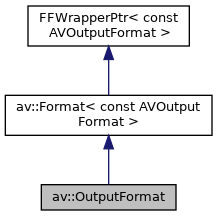
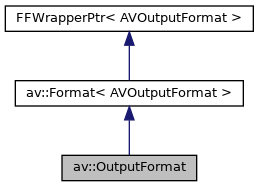
Update gh-pages to output generated at e71d3e4

Changed region(s): [[0.0, 0.0, 0.9954, 0.9893]]

diff --git a/classav_1_1OutputFormat.html b/classav_1_1OutputFormat.html
@@ -81,9 +81,9 @@ Inheritance diagram for av::OutputFormat:</div>
 <div class="dyncontent">
 <div class="center"><img src="classav_1_1OutputFormat__inherit__graph.png" border="0" usemap="#av_1_1OutputFormat_inherit__map" alt="Inheritance graph"/></div>
 <map name="av_1_1OutputFormat_inherit__map" id="av_1_1OutputFormat_inherit__map">
-<area shape="rect" title=" " alt="" coords="41,184,176,211"/>
-<area shape="rect" href="structav_1_1Format.html" title=" " alt="" coords="5,95,212,136"/>
-<area shape="rect" href="structFFWrapperPtr.html" title=" " alt="" coords="28,5,189,47"/>
+<area shape="rect" title=" " alt="" coords="62,155,197,181"/>
+<area shape="rect" href="structav_1_1Format.html" title=" " alt="" coords="15,80,243,107"/>
+<area shape="rect" href="structFFWrapperPtr.html" title=" " alt="" coords="5,5,253,32"/>
 </map>
 <center><span class="legend">[<a href="graph_legend.html">legend</a>]</span></center></div>
 <div class="dynheader">
@@ -91,9 +91,9 @@ Collaboration diagram for av::OutputFormat:</div>
 <div class="dyncontent">
 <div class="center"><img src="classav_1_1OutputFormat__coll__graph.png" border="0" usemap="#av_1_1OutputFormat_coll__map" alt="Collaboration graph"/></div>
 <map name="av_1_1OutputFormat_coll__map" id="av_1_1OutputFormat_coll__map">
-<area shape="rect" title=" " alt="" coords="41,184,176,211"/>
-<area shape="rect" href="structav_1_1Format.html" title=" " alt="" coords="5,95,212,136"/>
-<area shape="rect" href="structFFWrapperPtr.html" title=" " alt="" coords="28,5,189,47"/>
+<area shape="rect" title=" " alt="" coords="62,155,197,181"/>
+<area shape="rect" href="structav_1_1Format.html" title=" " alt="" coords="15,80,243,107"/>
+<area shape="rect" href="structFFWrapperPtr.html" title=" " alt="" coords="5,5,253,32"/>
 </map>
 <center><span class="legend">[<a href="graph_legend.html">legend</a>]</span></center></div>
 <table class="memberdecls">
@@ -109,7 +109,7 @@ Public Member Functions</h2></td></tr>
 <tr class="separator:ade1b0a0c023dbe99880f84547052891e"><td class="memSeparator" colspan="2">&#160;</td></tr>
 <tr class="memitem:a79fce31917f42711d05f3fe6c9ebc3b9"><td class="memItemLeft" align="right" valign="top">AVCodecID&#160;</td><td class="memItemRight" valign="bottom"><a class="el" href="classav_1_1OutputFormat.html#a79fce31917f42711d05f3fe6c9ebc3b9">defaultAudioCodecId</a> () const noexcept</td></tr>
 <tr class="separator:a79fce31917f42711d05f3fe6c9ebc3b9"><td class="memSeparator" colspan="2">&#160;</td></tr>
-<tr class="inherit_header pub_methods_structav_1_1Format"><td colspan="2" onclick="javascript:toggleInherit('pub_methods_structav_1_1Format')"><img src="closed.png" alt="-"/>&#160;Public Member Functions inherited from <a class="el" href="structav_1_1Format.html">av::Format&lt; const AVOutputFormat &gt;</a></td></tr>
+<tr class="inherit_header pub_methods_structav_1_1Format"><td colspan="2" onclick="javascript:toggleInherit('pub_methods_structav_1_1Format')"><img src="closed.png" alt="-"/>&#160;Public Member Functions inherited from <a class="el" href="structav_1_1Format.html">av::Format&lt; AVOutputFormat &gt;</a></td></tr>
 <tr class="memitem:a553d2d6b2d7dc22dee46a6fb826aac7c inherit pub_methods_structav_1_1Format"><td class="memItemLeft" align="right" valign="top">const char *&#160;</td><td class="memItemRight" valign="bottom"><a class="el" href="structav_1_1Format.html#a553d2d6b2d7dc22dee46a6fb826aac7c">name</a> () const noexcept</td></tr>
 <tr class="separator:a553d2d6b2d7dc22dee46a6fb826aac7c inherit pub_methods_structav_1_1Format"><td class="memSeparator" colspan="2">&#160;</td></tr>
 <tr class="memitem:a3e13d856e9b39f0b6b9bde2a3a47545b inherit pub_methods_structav_1_1Format"><td class="memItemLeft" align="right" valign="top">const char *&#160;</td><td class="memItemRight" valign="bottom"><a class="el" href="structav_1_1Format.html#a3e13d856e9b39f0b6b9bde2a3a47545b">longName</a> () const noexcept</td></tr>
@@ -118,20 +118,20 @@ Public Member Functions</h2></td></tr>
 <tr class="separator:ae1701d1a6ac64cbf03ec6755f49041f3 inherit pub_methods_structav_1_1Format"><td class="memSeparator" colspan="2">&#160;</td></tr>
 <tr class="memitem:a76a75832000e3f4278b0c6339dbf1eb3 inherit pub_methods_structav_1_1Format"><td class="memItemLeft" align="right" valign="top">bool&#160;</td><td class="memItemRight" valign="bottom"><a class="el" href="structav_1_1Format.html#a76a75832000e3f4278b0c6339dbf1eb3">isFlags</a> (int32_t <a class="el" href="structav_1_1Format.html#ae1701d1a6ac64cbf03ec6755f49041f3">flags</a>) const noexcept</td></tr>
 <tr class="separator:a76a75832000e3f4278b0c6339dbf1eb3 inherit pub_methods_structav_1_1Format"><td class="memSeparator" colspan="2">&#160;</td></tr>
-<tr class="memitem:a48a7626d81cc432338a0e397195f634c inherit pub_methods_structav_1_1Format"><td class="memItemLeft" align="right" valign="top">void&#160;</td><td class="memItemRight" valign="bottom"><a class="el" href="structav_1_1Format.html#a48a7626d81cc432338a0e397195f634c">setFormat</a> (const const AVOutputFormat *format) noexcept</td></tr>
+<tr class="memitem:a48a7626d81cc432338a0e397195f634c inherit pub_methods_structav_1_1Format"><td class="memItemLeft" align="right" valign="top">void&#160;</td><td class="memItemRight" valign="bottom"><a class="el" href="structav_1_1Format.html#a48a7626d81cc432338a0e397195f634c">setFormat</a> (const AVOutputFormat *format) noexcept</td></tr>
 <tr class="separator:a48a7626d81cc432338a0e397195f634c inherit pub_methods_structav_1_1Format"><td class="memSeparator" colspan="2">&#160;</td></tr>
 <tr class="memitem:ad7d5de416e36b566bb844c74f7b5e2dc inherit pub_methods_structav_1_1Format"><td class="memItemLeft" align="right" valign="top">bool&#160;</td><td class="memItemRight" valign="bottom"><a class="el" href="structav_1_1Format.html#ad7d5de416e36b566bb844c74f7b5e2dc">codecSupported</a> (const class <a class="el" href="classav_1_1Codec.html">Codec</a> &amp;codec) const noexcept</td></tr>
 <tr class="separator:ad7d5de416e36b566bb844c74f7b5e2dc inherit pub_methods_structav_1_1Format"><td class="memSeparator" colspan="2">&#160;</td></tr>
-<tr class="inherit_header pub_methods_structFFWrapperPtr"><td colspan="2" onclick="javascript:toggleInherit('pub_methods_structFFWrapperPtr')"><img src="closed.png" alt="-"/>&#160;Public Member Functions inherited from <a class="el" href="structFFWrapperPtr.html">FFWrapperPtr&lt; const AVOutputFormat &gt;</a></td></tr>
+<tr class="inherit_header pub_methods_structFFWrapperPtr"><td colspan="2" onclick="javascript:toggleInherit('pub_methods_structFFWrapperPtr')"><img src="closed.png" alt="-"/>&#160;Public Member Functions inherited from <a class="el" href="structFFWrapperPtr.html">FFWrapperPtr&lt; AVOutputFormat &gt;</a></td></tr>
 <tr class="memitem:a9c62250f8af0f75fa86ee2a62ece3471 inherit pub_methods_structFFWrapperPtr"><td class="memItemLeft" align="right" valign="top">&#160;</td><td class="memItemRight" valign="bottom"><a class="el" href="structFFWrapperPtr.html#a9c62250f8af0f75fa86ee2a62ece3471">FFWrapperPtr</a> ()=default</td></tr>
 <tr class="separator:a9c62250f8af0f75fa86ee2a62ece3471 inherit pub_methods_structFFWrapperPtr"><td class="memSeparator" colspan="2">&#160;</td></tr>
-<tr class="memitem:af4481d007c84ce93945712250896e640 inherit pub_methods_structFFWrapperPtr"><td class="memItemLeft" align="right" valign="top">&#160;</td><td class="memItemRight" valign="bottom"><a class="el" href="structFFWrapperPtr.html#af4481d007c84ce93945712250896e640">FFWrapperPtr</a> (const AVOutputFormat *<a class="el" href="structFFWrapperPtr.html#a9324a428f328e33b38e7ecd3ace23c17">raw</a>)</td></tr>
+<tr class="memitem:af4481d007c84ce93945712250896e640 inherit pub_methods_structFFWrapperPtr"><td class="memItemLeft" align="right" valign="top">&#160;</td><td class="memItemRight" valign="bottom"><a class="el" href="structFFWrapperPtr.html#af4481d007c84ce93945712250896e640">FFWrapperPtr</a> (AVOutputFormat *<a class="el" href="structFFWrapperPtr.html#a9324a428f328e33b38e7ecd3ace23c17">raw</a>)</td></tr>
 <tr class="separator:af4481d007c84ce93945712250896e640 inherit pub_methods_structFFWrapperPtr"><td class="memSeparator" colspan="2">&#160;</td></tr>
-<tr class="memitem:a9324a428f328e33b38e7ecd3ace23c17 inherit pub_methods_structFFWrapperPtr"><td class="memItemLeft" align="right" valign="top">const const AVOutputFormat *&#160;</td><td class="memItemRight" valign="bottom"><a class="el" href="structFFWrapperPtr.html#a9324a428f328e33b38e7ecd3ace23c17">raw</a> () const</td></tr>
+<tr class="memitem:a9324a428f328e33b38e7ecd3ace23c17 inherit pub_methods_structFFWrapperPtr"><td class="memItemLeft" align="right" valign="top">const AVOutputFormat *&#160;</td><td class="memItemRight" valign="bottom"><a class="el" href="structFFWrapperPtr.html#a9324a428f328e33b38e7ecd3ace23c17">raw</a> () const</td></tr>
 <tr class="separator:a9324a428f328e33b38e7ecd3ace23c17 inherit pub_methods_structFFWrapperPtr"><td class="memSeparator" colspan="2">&#160;</td></tr>
-<tr class="memitem:a872f3732cae6ab54abf6f6ca1af03822 inherit pub_methods_structFFWrapperPtr"><td class="memItemLeft" align="right" valign="top">const AVOutputFormat *&#160;</td><td class="memItemRight" valign="bottom"><a class="el" href="structFFWrapperPtr.html#a872f3732cae6ab54abf6f6ca1af03822">raw</a> ()</td></tr>
+<tr class="memitem:a872f3732cae6ab54abf6f6ca1af03822 inherit pub_methods_structFFWrapperPtr"><td class="memItemLeft" align="right" valign="top">AVOutputFormat *&#160;</td><td class="memItemRight" valign="bottom"><a class="el" href="structFFWrapperPtr.html#a872f3732cae6ab54abf6f6ca1af03822">raw</a> ()</td></tr>
 <tr class="separator:a872f3732cae6ab54abf6f6ca1af03822 inherit pub_methods_structFFWrapperPtr"><td class="memSeparator" colspan="2">&#160;</td></tr>
-<tr class="memitem:a1bb1bf8f201adeb010b0dce1aeefc07f inherit pub_methods_structFFWrapperPtr"><td class="memItemLeft" align="right" valign="top">void&#160;</td><td class="memItemRight" valign="bottom"><a class="el" href="structFFWrapperPtr.html#a1bb1bf8f201adeb010b0dce1aeefc07f">reset</a> (const AVOutputFormat *<a class="el" href="structFFWrapperPtr.html#a9324a428f328e33b38e7ecd3ace23c17">raw</a>=nullptr)</td></tr>
+<tr class="memitem:a1bb1bf8f201adeb010b0dce1aeefc07f inherit pub_methods_structFFWrapperPtr"><td class="memItemLeft" align="right" valign="top">void&#160;</td><td class="memItemRight" valign="bottom"><a class="el" href="structFFWrapperPtr.html#a1bb1bf8f201adeb010b0dce1aeefc07f">reset</a> (AVOutputFormat *<a class="el" href="structFFWrapperPtr.html#a9324a428f328e33b38e7ecd3ace23c17">raw</a>=nullptr)</td></tr>
 <tr class="separator:a1bb1bf8f201adeb010b0dce1aeefc07f inherit pub_methods_structFFWrapperPtr"><td class="memSeparator" colspan="2">&#160;</td></tr>
 <tr class="memitem:ae54094f0416110300e139b875945b982 inherit pub_methods_structFFWrapperPtr"><td class="memItemLeft" align="right" valign="top">bool&#160;</td><td class="memItemRight" valign="bottom"><a class="el" href="structFFWrapperPtr.html#ae54094f0416110300e139b875945b982">isNull</a> () const</td></tr>
 <tr class="separator:ae54094f0416110300e139b875945b982 inherit pub_methods_structFFWrapperPtr"><td class="memSeparator" colspan="2">&#160;</td></tr>
@@ -142,8 +142,8 @@ Public Member Functions</h2></td></tr>
 </table><table class="memberdecls">
 <tr class="heading"><td colspan="2"><h2 class="groupheader"><a name="inherited"></a>
 Additional Inherited Members</h2></td></tr>
-<tr class="inherit_header pro_attribs_structFFWrapperPtr"><td colspan="2" onclick="javascript:toggleInherit('pro_attribs_structFFWrapperPtr')"><img src="closed.png" alt="-"/>&#160;Protected Attributes inherited from <a class="el" href="structFFWrapperPtr.html">FFWrapperPtr&lt; const AVOutputFormat &gt;</a></td></tr>
-<tr class="memitem:a5965838ceb4eeae6d752187b914a2899 inherit pro_attribs_structFFWrapperPtr"><td class="memItemLeft" align="right" valign="top">const AVOutputFormat *&#160;</td><td class="memItemRight" valign="bottom"><a class="el" href="structFFWrapperPtr.html#a5965838ceb4eeae6d752187b914a2899">m_raw</a></td></tr>
+<tr class="inherit_header pro_attribs_structFFWrapperPtr"><td colspan="2" onclick="javascript:toggleInherit('pro_attribs_structFFWrapperPtr')"><img src="closed.png" alt="-"/>&#160;Protected Attributes inherited from <a class="el" href="structFFWrapperPtr.html">FFWrapperPtr&lt; AVOutputFormat &gt;</a></td></tr>
+<tr class="memitem:a5965838ceb4eeae6d752187b914a2899 inherit pro_attribs_structFFWrapperPtr"><td class="memItemLeft" align="right" valign="top">AVOutputFormat *&#160;</td><td class="memItemRight" valign="bottom"><a class="el" href="structFFWrapperPtr.html#a5965838ceb4eeae6d752187b914a2899">m_raw</a></td></tr>
 <tr class="separator:a5965838ceb4eeae6d752187b914a2899 inherit pro_attribs_structFFWrapperPtr"><td class="memSeparator" colspan="2">&#160;</td></tr>
 </table>
 <h2 class="groupheader">Constructor &amp; Destructor Documentation</h2>

diff --git a/classav_1_1OutputFormat-members.html b/classav_1_1OutputFormat-members.html
@@ -74,26 +74,26 @@ $(function() {
 
 <p>This is the complete list of members for <a class="el" href="classav_1_1OutputFormat.html">av::OutputFormat</a>, including all inherited members.</p>
 <table class="directory">
-  <tr class="even"><td class="entry"><a class="el" href="structFFWrapperPtr.html#a527efb6b9c843b88dda31ef3b7b908f4">_log</a>(int level, const char *fmt) const</td><td class="entry"><a class="el" href="structFFWrapperPtr.html">FFWrapperPtr&lt; const AVOutputFormat &gt;</a></td><td class="entry"><span class="mlabel">inline</span></td></tr>
-  <tr><td class="entry"><a class="el" href="structFFWrapperPtr.html#a510827f8ea5f35887075ee04f3f45519">_log</a>(int level, const char *fmt, const Args &amp;... args) const</td><td class="entry"><a class="el" href="structFFWrapperPtr.html">FFWrapperPtr&lt; const AVOutputFormat &gt;</a></td><td class="entry"><span class="mlabel">inline</span></td></tr>
-  <tr class="even"><td class="entry"><a class="el" href="structav_1_1Format.html#ad7d5de416e36b566bb844c74f7b5e2dc">codecSupported</a>(const class Codec &amp;codec) const noexcept</td><td class="entry"><a class="el" href="structav_1_1Format.html">av::Format&lt; const AVOutputFormat &gt;</a></td><td class="entry"><span class="mlabel">inline</span></td></tr>
+  <tr class="even"><td class="entry"><a class="el" href="structFFWrapperPtr.html#a527efb6b9c843b88dda31ef3b7b908f4">_log</a>(int level, const char *fmt) const</td><td class="entry"><a class="el" href="structFFWrapperPtr.html">FFWrapperPtr&lt; AVOutputFormat &gt;</a></td><td class="entry"><span class="mlabel">inline</span></td></tr>
+  <tr><td class="entry"><a class="el" href="structFFWrapperPtr.html#a510827f8ea5f35887075ee04f3f45519">_log</a>(int level, const char *fmt, const Args &amp;... args) const</td><td class="entry"><a class="el" href="structFFWrapperPtr.html">FFWrapperPtr&lt; AVOutputFormat &gt;</a></td><td class="entry"><span class="mlabel">inline</span></td></tr>
+  <tr class="even"><td class="entry"><a class="el" href="structav_1_1Format.html#ad7d5de416e36b566bb844c74f7b5e2dc">codecSupported</a>(const class Codec &amp;codec) const noexcept</td><td class="entry"><a class="el" href="structav_1_1Format.html">av::Format&lt; AVOutputFormat &gt;</a></td><td class="entry"><span class="mlabel">inline</span></td></tr>
   <tr><td class="entry"><a class="el" href="classav_1_1OutputFormat.html#a79fce31917f42711d05f3fe6c9ebc3b9">defaultAudioCodecId</a>() const noexcept</td><td class="entry"><a class="el" href="classav_1_1OutputFormat.html">av::OutputFormat</a></td><td class="entry"></td></tr>
   <tr class="even"><td class="entry"><a class="el" href="classav_1_1OutputFormat.html#ade1b0a0c023dbe99880f84547052891e">defaultVideoCodecId</a>() const noexcept</td><td class="entry"><a class="el" href="classav_1_1OutputFormat.html">av::OutputFormat</a></td><td class="entry"></td></tr>
-  <tr><td class="entry"><a class="el" href="structFFWrapperPtr.html#a9c62250f8af0f75fa86ee2a62ece3471">FFWrapperPtr</a>()=default</td><td class="entry"><a class="el" href="structFFWrapperPtr.html">FFWrapperPtr&lt; const AVOutputFormat &gt;</a></td><td class="entry"></td></tr>
-  <tr class="even"><td class="entry"><a class="el" href="structFFWrapperPtr.html#af4481d007c84ce93945712250896e640">FFWrapperPtr</a>(const AVOutputFormat *raw)</td><td class="entry"><a class="el" href="structFFWrapperPtr.html">FFWrapperPtr&lt; const AVOutputFormat &gt;</a></td><td class="entry"><span class="mlabel">inline</span><span class="mlabel">explicit</span></td></tr>
-  <tr><td class="entry"><a class="el" href="structav_1_1Format.html#ae1701d1a6ac64cbf03ec6755f49041f3">flags</a>() const noexcept</td><td class="entry"><a class="el" href="structav_1_1Format.html">av::Format&lt; const AVOutputFormat &gt;</a></td><td class="entry"><span class="mlabel">inline</span></td></tr>
-  <tr class="even"><td class="entry"><a class="el" href="structav_1_1Format.html#a76a75832000e3f4278b0c6339dbf1eb3">isFlags</a>(int32_t flags) const noexcept</td><td class="entry"><a class="el" href="structav_1_1Format.html">av::Format&lt; const AVOutputFormat &gt;</a></td><td class="entry"><span class="mlabel">inline</span></td></tr>
-  <tr><td class="entry"><a class="el" href="structFFWrapperPtr.html#ae54094f0416110300e139b875945b982">isNull</a>() const</td><td class="entry"><a class="el" href="structFFWrapperPtr.html">FFWrapperPtr&lt; const AVOutputFormat &gt;</a></td><td class="entry"><span class="mlabel">inline</span></td></tr>
-  <tr class="even"><td class="entry"><a class="el" href="structav_1_1Format.html#a3e13d856e9b39f0b6b9bde2a3a47545b">longName</a>() const noexcept</td><td class="entry"><a class="el" href="structav_1_1Format.html">av::Format&lt; const AVOutputFormat &gt;</a></td><td class="entry"><span class="mlabel">inline</span></td></tr>
-  <tr><td class="entry"><a class="el" href="structFFWrapperPtr.html#a5965838ceb4eeae6d752187b914a2899">m_raw</a></td><td class="entry"><a class="el" href="structFFWrapperPtr.html">FFWrapperPtr&lt; const AVOutputFormat &gt;</a></td><td class="entry"><span class="mlabel">protected</span></td></tr>
-  <tr class="even"><td class="entry"><a class="el" href="structav_1_1Format.html#a553d2d6b2d7dc22dee46a6fb826aac7c">name</a>() const noexcept</td><td class="entry"><a class="el" href="structav_1_1Format.html">av::Format&lt; const AVOutputFormat &gt;</a></td><td class="entry"><span class="mlabel">inline</span></td></tr>
+  <tr><td class="entry"><a class="el" href="structFFWrapperPtr.html#a9c62250f8af0f75fa86ee2a62ece3471">FFWrapperPtr</a>()=default</td><td class="entry"><a class="el" href="structFFWrapperPtr.html">FFWrapperPtr&lt; AVOutputFormat &gt;</a></td><td class="entry"></td></tr>
+  <tr class="even"><td class="entry"><a class="el" href="structFFWrapperPtr.html#af4481d007c84ce93945712250896e640">FFWrapperPtr</a>(AVOutputFormat *raw)</td><td class="entry"><a class="el" href="structFFWrapperPtr.html">FFWrapperPtr&lt; AVOutputFormat &gt;</a></td><td class="entry"><span class="mlabel">inline</span><span class="mlabel">explicit</span></td></tr>
+  <tr><td class="entry"><a class="el" href="structav_1_1Format.html#ae1701d1a6ac64cbf03ec6755f49041f3">flags</a>() const noexcept</td><td class="entry"><a class="el" href="structav_1_1Format.html">av::Format&lt; AVOutputFormat &gt;</a></td><td class="entry"><span class="mlabel">inline</span></td></tr>
+  <tr class="even"><td class="entry"><a class="el" href="structav_1_1Format.html#a76a75832000e3f4278b0c6339dbf1eb3">isFlags</a>(int32_t flags) const noexcept</td><td class="entry"><a class="el" href="structav_1_1Format.html">av::Format&lt; AVOutputFormat &gt;</a></td><td class="entry"><span class="mlabel">inline</span></td></tr>
+  <tr><td class="entry"><a class="el" href="structFFWrapperPtr.html#ae54094f0416110300e139b875945b982">isNull</a>() const</td><td class="entry"><a class="el" href="structFFWrapperPtr.html">FFWrapperPtr&lt; AVOutputFormat &gt;</a></td><td class="entry"><span class="mlabel">inline</span></td></tr>
+  <tr class="even"><td class="entry"><a class="el" href="structav_1_1Format.html#a3e13d856e9b39f0b6b9bde2a3a47545b">longName</a>() const noexcept</td><td class="entry"><a class="el" href="structav_1_1Format.html">av::Format&lt; AVOutputFormat &gt;</a></td><td class="entry"><span class="mlabel">inline</span></td></tr>
+  <tr><td class="entry"><a class="el" href="structFFWrapperPtr.html#a5965838ceb4eeae6d752187b914a2899">m_raw</a></td><td class="entry"><a class="el" href="structFFWrapperPtr.html">FFWrapperPtr&lt; AVOutputFormat &gt;</a></td><td class="entry"><span class="mlabel">protected</span></td></tr>
+  <tr class="even"><td class="entry"><a class="el" href="structav_1_1Format.html#a553d2d6b2d7dc22dee46a6fb826aac7c">name</a>() const noexcept</td><td class="entry"><a class="el" href="structav_1_1Format.html">av::Format&lt; AVOutputFormat &gt;</a></td><td class="entry"><span class="mlabel">inline</span></td></tr>
   <tr><td class="entry"><a class="el" href="classav_1_1OutputFormat.html#ae053c74fcb611e63c0a28c2e1cca6704">OutputFormat</a>()=default</td><td class="entry"><a class="el" href="classav_1_1OutputFormat.html">av::OutputFormat</a></td><td class="entry"></td></tr>
   <tr class="even"><td class="entry"><a class="el" href="classav_1_1OutputFormat.html#aa9c952ba4ad9e64a5cb48d6b0bd58815">OutputFormat</a>(const std::string &amp;name, const std::string &amp;url=std::string(), const std::string &amp;mime=std::string()) noexcept</td><td class="entry"><a class="el" href="classav_1_1OutputFormat.html">av::OutputFormat</a></td><td class="entry"></td></tr>
-  <tr><td class="entry"><a class="el" href="structFFWrapperPtr.html#a9324a428f328e33b38e7ecd3ace23c17">raw</a>() const</td><td class="entry"><a class="el" href="structFFWrapperPtr.html">FFWrapperPtr&lt; const AVOutputFormat &gt;</a></td><td class="entry"><span class="mlabel">inline</span></td></tr>
-  <tr class="even"><td class="entry"><a class="el" href="structFFWrapperPtr.html#a872f3732cae6ab54abf6f6ca1af03822">raw</a>()</td><td class="entry"><a class="el" href="structFFWrapperPtr.html">FFWrapperPtr&lt; const AVOutputFormat &gt;</a></td><td class="entry"><span class="mlabel">inline</span></td></tr>
-  <tr><td class="entry"><a class="el" href="structFFWrapperPtr.html#a1bb1bf8f201adeb010b0dce1aeefc07f">reset</a>(const AVOutputFormat *raw=nullptr)</td><td class="entry"><a class="el" href="structFFWrapperPtr.html">FFWrapperPtr&lt; const AVOutputFormat &gt;</a></td><td class="entry"><span class="mlabel">inline</span></td></tr>
+  <tr><td class="entry"><a class="el" href="structFFWrapperPtr.html#a9324a428f328e33b38e7ecd3ace23c17">raw</a>() const</td><td class="entry"><a class="el" href="structFFWrapperPtr.html">FFWrapperPtr&lt; AVOutputFormat &gt;</a></td><td class="entry"><span class="mlabel">inline</span></td></tr>
+  <tr class="even"><td class="entry"><a class="el" href="structFFWrapperPtr.html#a872f3732cae6ab54abf6f6ca1af03822">raw</a>()</td><td class="entry"><a class="el" href="structFFWrapperPtr.html">FFWrapperPtr&lt; AVOutputFormat &gt;</a></td><td class="entry"><span class="mlabel">inline</span></td></tr>
+  <tr><td class="entry"><a class="el" href="structFFWrapperPtr.html#a1bb1bf8f201adeb010b0dce1aeefc07f">reset</a>(AVOutputFormat *raw=nullptr)</td><td class="entry"><a class="el" href="structFFWrapperPtr.html">FFWrapperPtr&lt; AVOutputFormat &gt;</a></td><td class="entry"><span class="mlabel">inline</span></td></tr>
   <tr class="even"><td class="entry"><a class="el" href="classav_1_1OutputFormat.html#a6450d75481c6a605c7a613b3151f0498">setFormat</a>(const std::string &amp;name, const std::string &amp;url=std::string(), const std::string &amp;mime=std::string()) noexcept</td><td class="entry"><a class="el" href="classav_1_1OutputFormat.html">av::OutputFormat</a></td><td class="entry"></td></tr>
-  <tr><td class="entry"><a class="el" href="structav_1_1Format.html#a48a7626d81cc432338a0e397195f634c">Format&lt; const AVOutputFormat &gt;::setFormat</a>(const const AVOutputFormat *format) noexcept</td><td class="entry"><a class="el" href="structav_1_1Format.html">av::Format&lt; const AVOutputFormat &gt;</a></td><td class="entry"><span class="mlabel">inline</span></td></tr>
+  <tr><td class="entry"><a class="el" href="structav_1_1Format.html#a48a7626d81cc432338a0e397195f634c">Format&lt; AVOutputFormat &gt;::setFormat</a>(const AVOutputFormat *format) noexcept</td><td class="entry"><a class="el" href="structav_1_1Format.html">av::Format&lt; AVOutputFormat &gt;</a></td><td class="entry"><span class="mlabel">inline</span></td></tr>
 </table></div><!-- contents -->
 <!-- start footer part -->
 <hr class="footer"/><address class="footer"><small>

diff --git a/hierarchy.html b/hierarchy.html
@@ -126,17 +126,17 @@ This inheritance list is sorted roughly, but not completely, alphabetically:</di
 <tr id="row_21_" class="even"><td class="entry"><span style="width:0px;display:inline-block;">&#160;</span><span id="arr_21_" class="arrow" onclick="toggleFolder('21_')">&#9660;</span><span class="icona"><span class="icon">C</span></span><a class="el" href="structFFWrapperPtr.html" target="_self">FFWrapperPtr&lt; AVInputFormat &gt;</a></td><td class="desc"></td></tr>
 <tr id="row_21_0_"><td class="entry"><span style="width:16px;display:inline-block;">&#160;</span><span id="arr_21_0_" class="arrow" onclick="toggleFolder('21_0_')">&#9660;</span><span class="icona"><span class="icon">C</span></span><a class="el" href="structav_1_1Format.html" target="_self">av::Format&lt; AVInputFormat &gt;</a></td><td class="desc"></td></tr>
 <tr id="row_21_0_0_" class="even"><td class="entry"><span style="width:48px;display:inline-block;">&#160;</span><span class="icona"><span class="icon">C</span></span><a class="el" href="classav_1_1InputFormat.html" target="_self">av::InputFormat</a></td><td class="desc"></td></tr>
-<tr id="row_22_"><td class="entry"><span style="width:0px;display:inline-block;">&#160;</span><span id="arr_22_" class="arrow" onclick="toggleFolder('22_')">&#9660;</span><span class="icona"><span class="icon">C</span></span><a class="el" href="structFFWrapperPtr.html" target="_self">FFWrapperPtr&lt; AVStream &gt;</a></td><td class="desc"></td></tr>
-<tr id="row_22_0_" class="even"><td class="entry"><span style="width:32px;display:inline-block;">&#160;</span><span class="icona"><span class="icon">C</span></span><a class="el" href="classav_1_1Stream.html" target="_self">av::Stream</a></td><td class="desc"></td></tr>
-<tr id="row_23_"><td class="entry"><span style="width:0px;display:inline-block;">&#160;</span><span id="arr_23_" class="arrow" onclick="toggleFolder('23_')">&#9660;</span><span class="icona"><span class="icon">C</span></span><a class="el" href="structFFWrapperPtr.html" target="_self">FFWrapperPtr&lt; const AVCodec &gt;</a></td><td class="desc"></td></tr>
-<tr id="row_23_0_" class="even"><td class="entry"><span style="width:32px;display:inline-block;">&#160;</span><span class="icona"><span class="icon">C</span></span><a class="el" href="classav_1_1Codec.html" target="_self">av::Codec</a></td><td class="desc"></td></tr>
-<tr id="row_24_"><td class="entry"><span style="width:0px;display:inline-block;">&#160;</span><span id="arr_24_" class="arrow" onclick="toggleFolder('24_')">&#9660;</span><span class="icona"><span class="icon">C</span></span><a class="el" href="structFFWrapperPtr.html" target="_self">FFWrapperPtr&lt; const AVFilter &gt;</a></td><td class="desc"></td></tr>
-<tr id="row_24_0_" class="even"><td class="entry"><span style="width:32px;display:inline-block;">&#160;</span><span class="icona"><span class="icon">C</span></span><a class="el" href="classav_1_1Filter.html" target="_self">av::Filter</a></td><td class="desc"></td></tr>
-<tr id="row_25_"><td class="entry"><span style="width:0px;display:inline-block;">&#160;</span><span id="arr_25_" class="arrow" onclick="toggleFolder('25_')">&#9660;</span><span class="icona"><span class="icon">C</span></span><a class="el" href="structFFWrapperPtr.html" target="_self">FFWrapperPtr&lt; const AVFilterPad &gt;</a></td><td class="desc"></td></tr>
-<tr id="row_25_0_" class="even"><td class="entry"><span style="width:32px;display:inline-block;">&#160;</span><span class="icona"><span class="icon">C</span></span><a class="el" href="classav_1_1FilterPadList.html" target="_self">av::FilterPadList</a></td><td class="desc"></td></tr>
-<tr id="row_26_"><td class="entry"><span style="width:0px;display:inline-block;">&#160;</span><span id="arr_26_" class="arrow" onclick="toggleFolder('26_')">&#9660;</span><span class="icona"><span class="icon">C</span></span><a class="el" href="structFFWrapperPtr.html" target="_self">FFWrapperPtr&lt; const AVOutputFormat &gt;</a></td><td class="desc"></td></tr>
-<tr id="row_26_0_" class="even"><td class="entry"><span style="width:16px;display:inline-block;">&#160;</span><span id="arr_26_0_" class="arrow" onclick="toggleFolder('26_0_')">&#9660;</span><span class="icona"><span class="icon">C</span></span><a class="el" href="structav_1_1Format.html" target="_self">av::Format&lt; const AVOutputFormat &gt;</a></td><td class="desc"></td></tr>
-<tr id="row_26_0_0_"><td class="entry"><span style="width:48px;display:inline-block;">&#160;</span><span class="icona"><span class="icon">C</span></span><a class="el" href="classav_1_1OutputFormat.html" target="_self">av::OutputFormat</a></td><td class="desc"></td></tr>
+<tr id="row_22_"><td class="entry"><span style="width:0px;display:inline-block;">&#160;</span><span id="arr_22_" class="arrow" onclick="toggleFolder('22_')">&#9660;</span><span class="icona"><span class="icon">C</span></span><a class="el" href="structFFWrapperPtr.html" target="_self">FFWrapperPtr&lt; AVOutputFormat &gt;</a></td><td class="desc"></td></tr>
+<tr id="row_22_0_" class="even"><td class="entry"><span style="width:16px;display:inline-block;">&#160;</span><span id="arr_22_0_" class="arrow" onclick="toggleFolder('22_0_')">&#9660;</span><span class="icona"><span class="icon">C</span></span><a class="el" href="structav_1_1Format.html" target="_self">av::Format&lt; AVOutputFormat &gt;</a></td><td class="desc"></td></tr>
+<tr id="row_22_0_0_"><td class="entry"><span style="width:48px;display:inline-block;">&#160;</span><span class="icona"><span class="icon">C</span></span><a class="el" href="classav_1_1OutputFormat.html" target="_self">av::OutputFormat</a></td><td class="desc"></td></tr>
+<tr id="row_23_" class="even"><td class="entry"><span style="width:0px;display:inline-block;">&#160;</span><span id="arr_23_" class="arrow" onclick="toggleFolder('23_')">&#9660;</span><span class="icona"><span class="icon">C</span></span><a class="el" href="structFFWrapperPtr.html" target="_self">FFWrapperPtr&lt; AVStream &gt;</a></td><td class="desc"></td></tr>
+<tr id="row_23_0_"><td class="entry"><span style="width:32px;display:inline-block;">&#160;</span><span class="icona"><span class="icon">C</span></span><a class="el" href="classav_1_1Stream.html" target="_self">av::Stream</a></td><td class="desc"></td></tr>
+<tr id="row_24_" class="even"><td class="entry"><span style="width:0px;display:inline-block;">&#160;</span><span id="arr_24_" class="arrow" onclick="toggleFolder('24_')">&#9660;</span><span class="icona"><span class="icon">C</span></span><a class="el" href="structFFWrapperPtr.html" target="_self">FFWrapperPtr&lt; const AVCodec &gt;</a></td><td class="desc"></td></tr>
+<tr id="row_24_0_"><td class="entry"><span style="width:32px;display:inline-block;">&#160;</span><span class="icona"><span class="icon">C</span></span><a class="el" href="classav_1_1Codec.html" target="_self">av::Codec</a></td><td class="desc"></td></tr>
+<tr id="row_25_" class="even"><td class="entry"><span style="width:0px;display:inline-block;">&#160;</span><span id="arr_25_" class="arrow" onclick="toggleFolder('25_')">&#9660;</span><span class="icona"><span class="icon">C</span></span><a class="el" href="structFFWrapperPtr.html" target="_self">FFWrapperPtr&lt; const AVFilter &gt;</a></td><td class="desc"></td></tr>
+<tr id="row_25_0_"><td class="entry"><span style="width:32px;display:inline-block;">&#160;</span><span class="icona"><span class="icon">C</span></span><a class="el" href="classav_1_1Filter.html" target="_self">av::Filter</a></td><td class="desc"></td></tr>
+<tr id="row_26_" class="even"><td class="entry"><span style="width:0px;display:inline-block;">&#160;</span><span id="arr_26_" class="arrow" onclick="toggleFolder('26_')">&#9660;</span><span class="icona"><span class="icon">C</span></span><a class="el" href="structFFWrapperPtr.html" target="_self">FFWrapperPtr&lt; const AVFilterPad &gt;</a></td><td class="desc"></td></tr>
+<tr id="row_26_0_"><td class="entry"><span style="width:32px;display:inline-block;">&#160;</span><span class="icona"><span class="icon">C</span></span><a class="el" href="classav_1_1FilterPadList.html" target="_self">av::FilterPadList</a></td><td class="desc"></td></tr>
 <tr id="row_27_" class="even"><td class="entry"><span style="width:0px;display:inline-block;">&#160;</span><span id="arr_27_" class="arrow" onclick="toggleFolder('27_')">&#9660;</span><span class="icona"><span class="icon">C</span></span><a class="el" href="structFFWrapperPtr.html" target="_self">FFWrapperPtr&lt; SwrContext &gt;</a></td><td class="desc"></td></tr>
 <tr id="row_27_0_"><td class="entry"><span style="width:32px;display:inline-block;">&#160;</span><span class="icona"><span class="icon">C</span></span><a class="el" href="classav_1_1AudioResampler.html" target="_self">av::AudioResampler</a></td><td class="desc"></td></tr>
 <tr id="row_28_" class="even"><td class="entry"><span style="width:0px;display:inline-block;">&#160;</span><span id="arr_28_" class="arrow" onclick="toggleFolder('28_')">&#9660;</span><span class="icona"><span class="icon">C</span></span><a class="el" href="structFFWrapperPtr.html" target="_self">FFWrapperPtr&lt; SwsContext &gt;</a></td><td class="desc"></td></tr>

diff --git a/inherits.html b/inherits.html
@@ -296,35 +296,35 @@ $(function() {
 <area shape="rect" href="classav_1_1InputFormat.html" title=" " alt="" coords="556,5,680,32"/>
 </map>
 </td></tr>
-<tr><td><img src="inherit_graph_37.png" border="0" usemap="#FFWrapperPtr_3_01AVStream_01_4" alt=""/>
+<tr><td><img src="inherit_graph_37.png" border="0" usemap="#FFWrapperPtr_3_01AVOutputFormat_01_4" alt=""/>
+<map name="FFWrapperPtr_3_01AVOutputFormat_01_4" id="FFWrapperPtr_3_01AVOutputFormat_01_4">
+<area shape="rect" href="structFFWrapperPtr.html" title=" " alt="" coords="5,5,253,32"/>
+<area shape="rect" href="structav_1_1Format.html" title=" " alt="" coords="301,5,529,32"/>
+<area shape="rect" href="classav_1_1OutputFormat.html" title=" " alt="" coords="577,5,712,32"/>
+</map>
+</td></tr>
+<tr><td><img src="inherit_graph_38.png" border="0" usemap="#FFWrapperPtr_3_01AVStream_01_4" alt=""/>
 <map name="FFWrapperPtr_3_01AVStream_01_4" id="FFWrapperPtr_3_01AVStream_01_4">
 <area shape="rect" href="structFFWrapperPtr.html" title=" " alt="" coords="5,5,211,32"/>
 <area shape="rect" href="classav_1_1Stream.html" title=" " alt="" coords="259,5,351,32"/>
 </map>
 </td></tr>
-<tr><td><img src="inherit_graph_38.png" border="0" usemap="#FFWrapperPtr_3_01const_01AVCodec_01_4" alt=""/>
+<tr><td><img src="inherit_graph_39.png" border="0" usemap="#FFWrapperPtr_3_01const_01AVCodec_01_4" alt=""/>
 <map name="FFWrapperPtr_3_01const_01AVCodec_01_4" id="FFWrapperPtr_3_01const_01AVCodec_01_4">
 <area shape="rect" href="structFFWrapperPtr.html" title=" " alt="" coords="5,5,167,47"/>
 <area shape="rect" href="classav_1_1Codec.html" title=" " alt="" coords="215,13,300,39"/>
 </map>
 </td></tr>
-<tr><td><img src="inherit_graph_39.png" border="0" usemap="#FFWrapperPtr_3_01const_01AVFilter_01_4" alt=""/>
+<tr><td><img src="inherit_graph_40.png" border="0" usemap="#FFWrapperPtr_3_01const_01AVFilter_01_4" alt=""/>
 <map name="FFWrapperPtr_3_01const_01AVFilter_01_4" id="FFWrapperPtr_3_01const_01AVFilter_01_4">
 <area shape="rect" href="structFFWrapperPtr.html" title=" " alt="" coords="5,5,167,47"/>
 <area shape="rect" href="classav_1_1Filter.html" title=" " alt="" coords="215,13,293,39"/>
 </map>
 </td></tr>
-<tr><td><img src="inherit_graph_40.png" border="0" usemap="#FFWrapperPtr_3_01const_01AVFilterPad_01_4" alt=""/>
+<tr><td><img src="inherit_graph_41.png" border="0" usemap="#FFWrapperPtr_3_01const_01AVFilterPad_01_4" alt=""/>
 <map name="FFWrapperPtr_3_01const_01AVFilterPad_01_4" id="FFWrapperPtr_3_01const_01AVFilterPad_01_4">
 <area shape="rect" href="structFFWrapperPtr.html" title=" " alt="" coords="5,5,167,47"/>
 <area shape="rect" href="classav_1_1FilterPadList.html" title=" " alt="" coords="215,13,339,39"/>
-</map>
-</td></tr>
-<tr><td><img src="inherit_graph_41.png" border="0" usemap="#FFWrapperPtr_3_01const_01AVOutputFormat_01_4" alt=""/>
-<map name="FFWrapperPtr_3_01const_01AVOutputFormat_01_4" id="FFWrapperPtr_3_01const_01AVOutputFormat_01_4">
-<area shape="rect" href="structFFWrapperPtr.html" title=" " alt="" coords="5,5,167,47"/>
-<area shape="rect" href="structav_1_1Format.html" title=" " alt="" coords="215,5,421,47"/>
-<area shape="rect" href="classav_1_1OutputFormat.html" title=" " alt="" coords="469,13,604,39"/>
 </map>
 </td></tr>
 <tr><td><img src="inherit_graph_42.png" border="0" usemap="#FFWrapperPtr_3_01T_01_4" alt=""/>

diff --git a/search/all_6.js b/search/all_6.js
@@ -15,11 +15,11 @@ var searchData=
   ['ffwrapperptr_3c_20avformatcontext_20_3e_198',['FFWrapperPtr&lt; AVFormatContext &gt;',['../structFFWrapperPtr.html',1,'']]],
   ['ffwrapperptr_3c_20avframe_20_3e_199',['FFWrapperPtr&lt; AVFrame &gt;',['../structFFWrapperPtr.html',1,'']]],
   ['ffwrapperptr_3c_20avinputformat_20_3e_200',['FFWrapperPtr&lt; AVInputFormat &gt;',['../structFFWrapperPtr.html',1,'']]],
-  ['ffwrapperptr_3c_20avstream_20_3e_201',['FFWrapperPtr&lt; AVStream &gt;',['../structFFWrapperPtr.html',1,'']]],
-  ['ffwrapperptr_3c_20const_20avcodec_20_3e_202',['FFWrapperPtr&lt; const AVCodec &gt;',['../structFFWrapperPtr.html',1,'']]],
-  ['ffwrapperptr_3c_20const_20avfilter_20_3e_203',['FFWrapperPtr&lt; const AVFilter &gt;',['../structFFWrapperPtr.html',1,'']]],
-  ['ffwrapperptr_3c_20const_20avfilterpad_20_3e_204',['FFWrapperPtr&lt; const AVFilterPad &gt;',['../structFFWrapperPtr.html',1,'']]],
-  ['ffwrapperptr_3c_20const_20avoutputformat_20_3e_205',['FFWrapperPtr&lt; const AVOutputFormat &gt;',['../structFFWrapperPtr.html',1,'']]],
+  ['ffwrapperptr_3c_20avoutputformat_20_3e_201',['FFWrapperPtr&lt; AVOutputFormat &gt;',['../structFFWrapperPtr.html',1,'']]],
+  ['ffwrapperptr_3c_20avstream_20_3e_202',['FFWrapperPtr&lt; AVStream &gt;',['../structFFWrapperPtr.html',1,'']]],
+  ['ffwrapperptr_3c_20const_20avcodec_20_3e_203',['FFWrapperPtr&lt; const AVCodec &gt;',['../structFFWrapperPtr.html',1,'']]],
+  ['ffwrapperptr_3c_20const_20avfilter_20_3e_204',['FFWrapperPtr&lt; const AVFilter &gt;',['../structFFWrapperPtr.html',1,'']]],
+  ['ffwrapperptr_3c_20const_20avfilterpad_20_3e_205',['FFWrapperPtr&lt; const AVFilterPad &gt;',['../structFFWrapperPtr.html',1,'']]],
   ['ffwrapperptr_3c_20swrcontext_20_3e_206',['FFWrapperPtr&lt; SwrContext &gt;',['../structFFWrapperPtr.html',1,'']]],
   ['ffwrapperptr_3c_20swscontext_20_3e_207',['FFWrapperPtr&lt; SwsContext &gt;',['../structFFWrapperPtr.html',1,'']]],
   ['ffwrapperref_208',['FFWrapperRef',['../structFFWrapperRef.html',1,'FFWrapperRef&lt; T &gt;'],['../structFFWrapperRef.html#abb07ecfc6a3e0dbe82a2b4675a8ae8b7',1,'FFWrapperRef::FFWrapperRef()=default'],['../structFFWrapperRef.html#ae75fd610a41fa506f7b2e443aeee44d4',1,'FFWrapperRef::FFWrapperRef(const T &amp;raw)']]],
@@ -59,7 +59,7 @@ var searchData=
   ['format_2ecpp_242',['format.cpp',['../format_8cpp.html',1,'']]],
   ['format_2eh_243',['format.h',['../format_8h.html',1,'']]],
   ['format_3c_20avinputformat_20_3e_244',['Format&lt; AVInputFormat &gt;',['../structav_1_1Format.html',1,'av']]],
-  ['format_3c_20const_20avoutputformat_20_3e_245',['Format&lt; const AVOutputFormat &gt;',['../structav_1_1Format.html',1,'av']]],
+  ['format_3c_20avoutputformat_20_3e_245',['Format&lt; AVOutputFormat &gt;',['../structav_1_1Format.html',1,'av']]],
   ['formatalreadyopened_246',['FormatAlreadyOpened',['../namespaceav.html#aa0be1141896ec64853346d02dbf2d905a6f29cf8a3b7b88855563a28e56117865',1,'av']]],
   ['formatcantaddstream_247',['FormatCantAddStream',['../namespaceav.html#aa0be1141896ec64853346d02dbf2d905ab995795081e41596cf1fe3df6895427f',1,'av']]],
   ['formatcodecunsupported_248',['FormatCodecUnsupported',['../namespaceav.html#aa0be1141896ec64853346d02dbf2d905a24d0555befd233c3911ab2966d65dc25',1,'av']]],

diff --git a/search/classes_5.js b/search/classes_5.js
@@ -9,11 +9,11 @@ var searchData=
   ['ffwrapperptr_3c_20avformatcontext_20_3e_674',['FFWrapperPtr&lt; AVFormatContext &gt;',['../structFFWrapperPtr.html',1,'']]],
   ['ffwrapperptr_3c_20avframe_20_3e_675',['FFWrapperPtr&lt; AVFrame &gt;',['../structFFWrapperPtr.html',1,'']]],
   ['ffwrapperptr_3c_20avinputformat_20_3e_676',['FFWrapperPtr&lt; AVInputFormat &gt;',['../structFFWrapperPtr.html',1,'']]],
-  ['ffwrapperptr_3c_20avstream_20_3e_677',['FFWrapperPtr&lt; AVStream &gt;',['../structFFWrapperPtr.html',1,'']]],
-  ['ffwrapperptr_3c_20const_20avcodec_20_3e_678',['FFWrapperPtr&lt; const AVCodec &gt;',['../structFFWrapperPtr.html',1,'']]],
-  ['ffwrapperptr_3c_20const_20avfilter_20_3e_679',['FFWrapperPtr&lt; const AVFilter &gt;',['../structFFWrapperPtr.html',1,'']]],
-  ['ffwrapperptr_3c_20const_20avfilterpad_20_3e_680',['FFWrapperPtr&lt; const AVFilterPad &gt;',['../structFFWrapperPtr.html',1,'']]],
-  ['ffwrapperptr_3c_20const_20avoutputformat_20_3e_681',['FFWrapperPtr&lt; const AVOutputFormat &gt;',['../structFFWrapperPtr.html',1,'']]],
+  ['ffwrapperptr_3c_20avoutputformat_20_3e_677',['FFWrapperPtr&lt; AVOutputFormat &gt;',['../structFFWrapperPtr.html',1,'']]],
+  ['ffwrapperptr_3c_20avstream_20_3e_678',['FFWrapperPtr&lt; AVStream &gt;',['../structFFWrapperPtr.html',1,'']]],
+  ['ffwrapperptr_3c_20const_20avcodec_20_3e_679',['FFWrapperPtr&lt; const AVCodec &gt;',['../structFFWrapperPtr.html',1,'']]],
+  ['ffwrapperptr_3c_20const_20avfilter_20_3e_680',['FFWrapperPtr&lt; const AVFilter &gt;',['../structFFWrapperPtr.html',1,'']]],
+  ['ffwrapperptr_3c_20const_20avfilterpad_20_3e_681',['FFWrapperPtr&lt; const AVFilterPad &gt;',['../structFFWrapperPtr.html',1,'']]],
   ['ffwrapperptr_3c_20swrcontext_20_3e_682',['FFWrapperPtr&lt; SwrContext &gt;',['../structFFWrapperPtr.html',1,'']]],
   ['ffwrapperptr_3c_20swscontext_20_3e_683',['FFWrapperPtr&lt; SwsContext &gt;',['../structFFWrapperPtr.html',1,'']]],
   ['ffwrapperref_684',['FFWrapperRef',['../structFFWrapperRef.html',1,'']]],
@@ -24,7 +24,7 @@ var searchData=
   ['filterpadlist_689',['FilterPadList',['../classav_1_1FilterPadList.html',1,'av']]],
   ['format_690',['Format',['../structav_1_1Format.html',1,'av']]],
   ['format_3c_20avinputformat_20_3e_691',['Format&lt; AVInputFormat &gt;',['../structav_1_1Format.html',1,'av']]],
-  ['format_3c_20const_20avoutputformat_20_3e_692',['Format&lt; const AVOutputFormat &gt;',['../structav_1_1Format.html',1,'av']]],
+  ['format_3c_20avoutputformat_20_3e_692',['Format&lt; AVOutputFormat &gt;',['../structav_1_1Format.html',1,'av']]],
   ['formatcontext_693',['FormatContext',['../classav_1_1FormatContext.html',1,'av']]],
   ['frame_694',['Frame',['../classav_1_1Frame.html',1,'av']]],
   ['frame_3c_20audiosamples_20_3e_695',['Frame&lt; AudioSamples &gt;',['../classav_1_1Frame.html',1,'av']]],

diff --git a/format_8h_source.html b/format_8h_source.html
@@ -140,11 +140,11 @@ $(function() {
 <div class="line"><a name="l00067"></a><span class="lineno">   67</span>&#160;};</div>
 <div class="line"><a name="l00068"></a><span class="lineno">   68</span>&#160; </div>
 <div class="line"><a name="l00069"></a><span class="lineno">   69</span>&#160; </div>
-<div class="line"><a name="l00070"></a><span class="lineno"><a class="line" href="classav_1_1OutputFormat.html">   70</a></span>&#160;<span class="keyword">class </span><a class="code" href="classav_1_1OutputFormat.html">OutputFormat</a> : <span class="keyword">public</span> <a class="code" href="structav_1_1Format.html">Format</a>&lt;const AVOutputFormat&gt;</div>
+<div class="line"><a name="l00070"></a><span class="lineno"><a class="line" href="classav_1_1OutputFormat.html">   70</a></span>&#160;<span class="keyword">class </span><a class="code" href="classav_1_1OutputFormat.html">OutputFormat</a> : <span class="keyword">public</span> <a class="code" href="structav_1_1Format.html">Format</a>&lt;AVOutputFormat&gt;</div>
 <div class="line"><a name="l00071"></a><span class="lineno">   71</span>&#160;{</div>
 <div class="line"><a name="l00072"></a><span class="lineno">   72</span>&#160;<span class="keyword">public</span>:</div>
-<div class="line"><a name="l00073"></a><span class="lineno">   73</span>&#160;    <span class="keyword">using</span> <a class="code" href="structav_1_1Format.html">Format&lt;const AVOutputFormat&gt;::Format</a>;</div>
-<div class="line"><a name="l00074"></a><span class="lineno">   74</span>&#160;    <span class="keyword">using</span> <a class="code" href="structav_1_1Format.html">Format&lt;const AVOutputFormat&gt;::setFormat</a>;</div>
+<div class="line"><a name="l00073"></a><span class="lineno">   73</span>&#160;    <span class="keyword">using</span> <a class="code" href="structav_1_1Format.html">Format&lt;AVOutputFormat&gt;::Format</a>;</div>
+<div class="line"><a name="l00074"></a><span class="lineno">   74</span>&#160;    <span class="keyword">using</span> <a class="code" href="structav_1_1Format.html">Format&lt;AVOutputFormat&gt;::setFormat</a>;</div>
 <div class="line"><a name="l00075"></a><span class="lineno">   75</span>&#160; </div>
 <div class="line"><a name="l00076"></a><span class="lineno">   76</span>&#160;    <a class="code" href="classav_1_1OutputFormat.html#ae053c74fcb611e63c0a28c2e1cca6704">OutputFormat</a>() = <span class="keywordflow">default</span>;</div>
 <div class="line"><a name="l00077"></a><span class="lineno">   77</span>&#160; </div>
